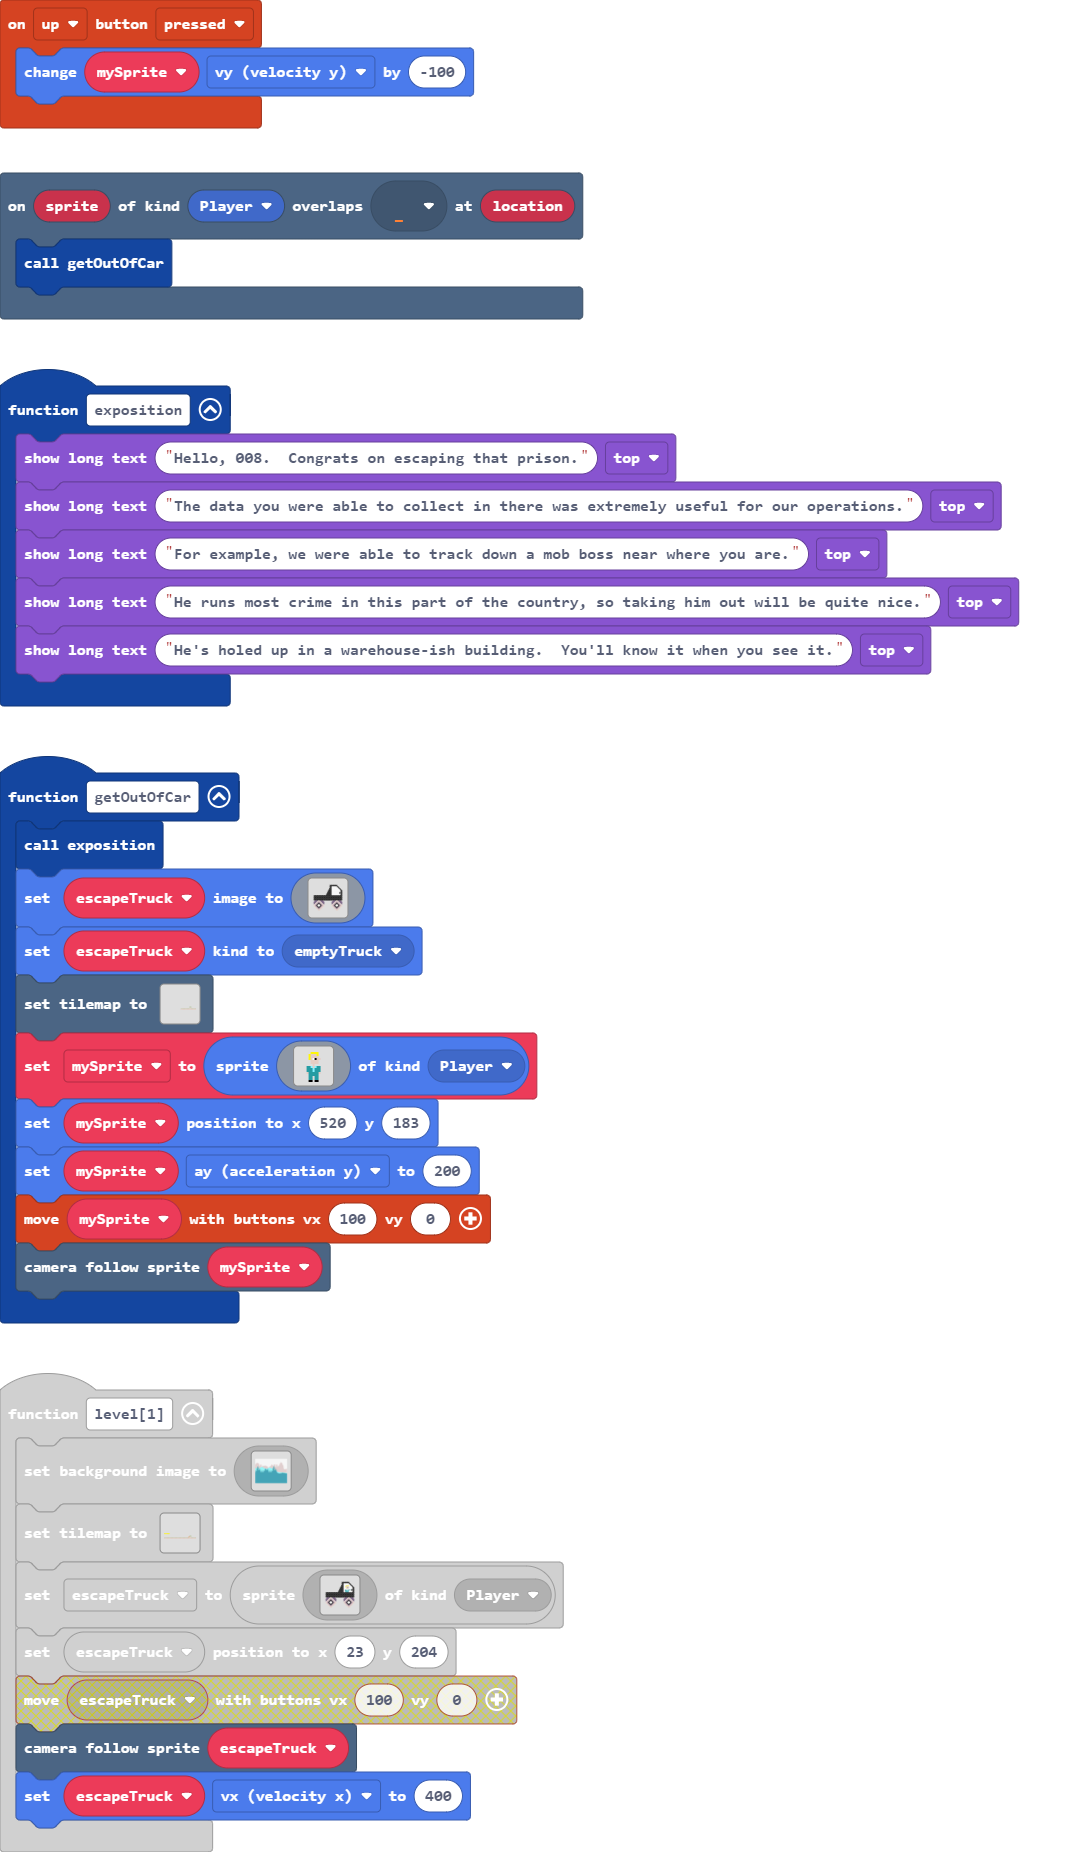
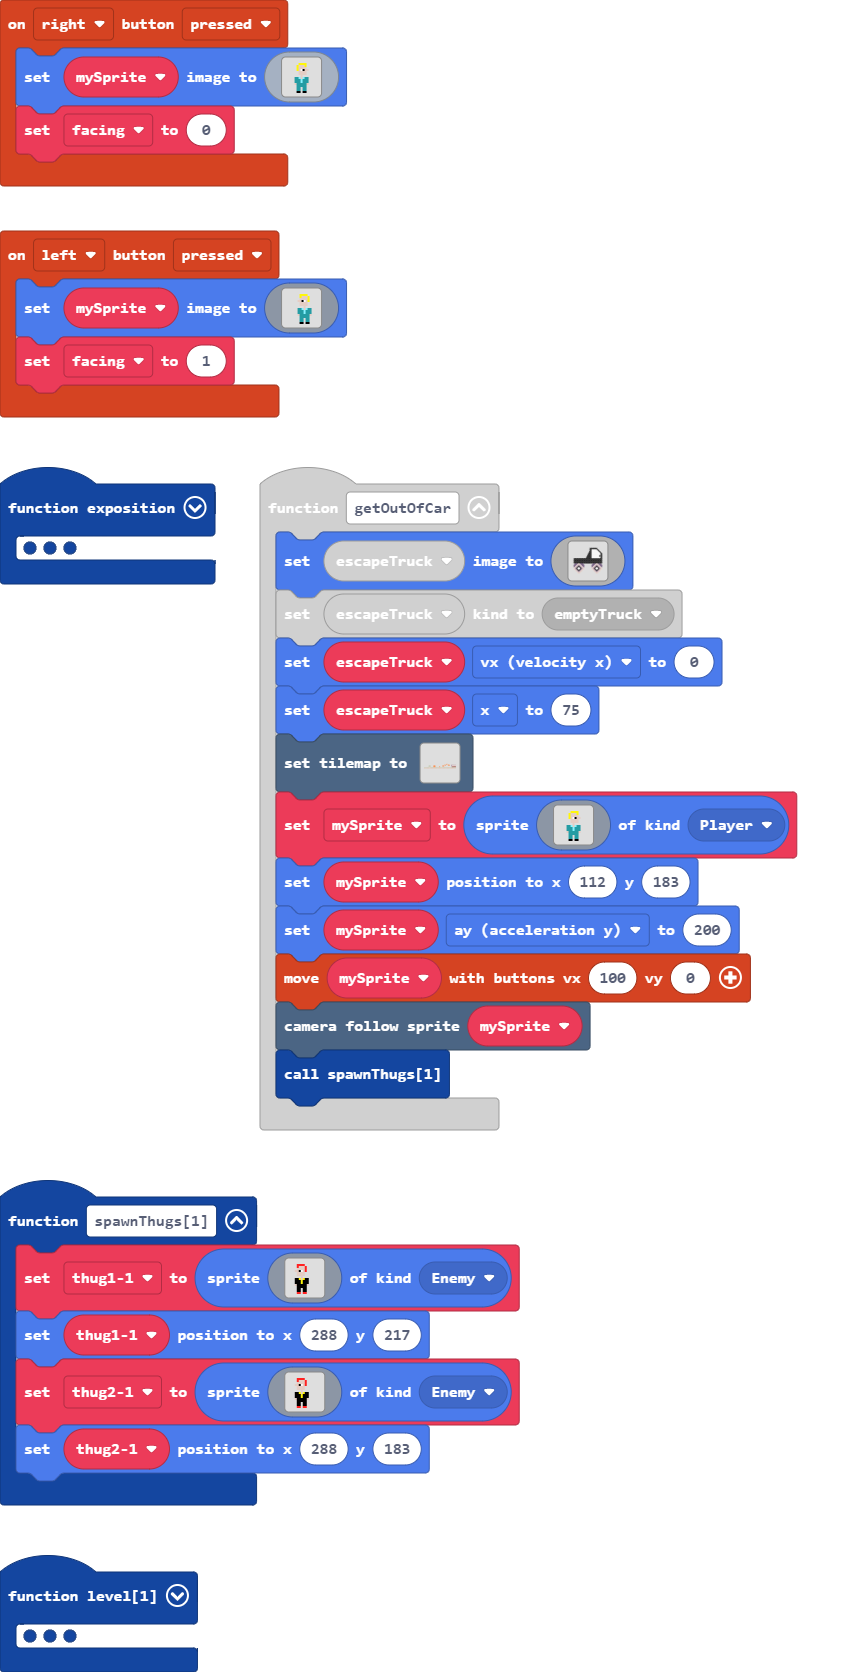
Update pxt.json, main.blocks, main.ts, tilemap.g.jres, tilemap.g.ts

diff --git a/tilemap.g.ts b/tilemap.g.ts
@@ -7,8 +7,6 @@ namespace myTiles {
     //% fixedInstance jres blockIdentity=images._tile
     export const tile3 = image.ofBuffer(hex``);
     //% fixedInstance jres blockIdentity=images._tile
-    export const tile1 = image.ofBuffer(hex``);
-    //% fixedInstance jres blockIdentity=images._tile
     export const tile4 = image.ofBuffer(hex``);
     //% fixedInstance jres blockIdentity=images._tile
     export const tile5 = image.ofBuffer(hex``);
@@ -36,6 +34,24 @@ namespace myTiles {
     export const tile9 = image.ofBuffer(hex``);
     //% fixedInstance jres blockIdentity=images._tile
     export const tile17 = image.ofBuffer(hex``);
+    //% fixedInstance jres blockIdentity=images._tile
+    export const tile18 = image.ofBuffer(hex``);
+    //% fixedInstance jres blockIdentity=images._tile
+    export const tile19 = image.ofBuffer(hex``);
+    //% fixedInstance jres blockIdentity=images._tile
+    export const tile20 = image.ofBuffer(hex``);
+    //% fixedInstance jres blockIdentity=images._tile
+    export const tile21 = image.ofBuffer(hex``);
+    //% fixedInstance jres blockIdentity=images._tile
+    export const tile22 = image.ofBuffer(hex``);
+    //% fixedInstance jres blockIdentity=images._tile
+    export const tile1 = image.ofBuffer(hex``);
+    //% fixedInstance jres blockIdentity=images._tile
+    export const tile23 = image.ofBuffer(hex``);
+    //% fixedInstance jres blockIdentity=images._tile
+    export const tile24 = image.ofBuffer(hex``);
+    //% fixedInstance jres blockIdentity=images._tile
+    export const tile25 = image.ofBuffer(hex``);
 
     helpers._registerFactory("tilemap", function(name: string) {
         switch(helpers.stringTrim(name)) {
@@ -130,24 +146,24 @@ namespace myTiles {
 ........................................
 `, [myTiles.transparency16,myTiles.tile7,myTiles.tile10,myTiles.tile11,myTiles.tile13,myTiles.tile14,myTiles.tile15,myTiles.tile9,sprites.castle.tilePath2,sprites.castle.tilePath5,sprites.castle.tilePath1,sprites.castle.tilePath4,sprites.castle.tilePath3,sprites.castle.tilePath6], TileScale.Sixteen);
             case "level6":
-            case "level6":return tiles.createTilemap(hex`2800100000000000000000000000000000000000000000000000000000000000000000000000000000000000000000000000000000000000000000000000000000000000000000000000000000000000000000000000000000000000000000000000000000000000000000000000000000000000000000000000000000000000000000000000000000000000000000000000000000000000000000000000000000000000000000000000000000000000000000000000000000000000000000000000000000000000000000000000000000000000000000000000000000000000000000000000000000000000000000000000000000000000000000000000000000000000000000000000000000000000000000000000000000000000000000000000000000000000000000000000000000000000000000000000000000000000000000000000000000000000000000000000000000000000000000000000000000000000000000000000000000000000000000000000000000000000000000000000000000000000000000000000000000000000000000000000000000000000000000000000000000000000000000000000000000000000000000000000000000000000000000000000000000000000000000000000000000000000000000000000000000000000000000000000000000000000000000000000000000000000000000000305000000000000000000000000000000000000000000000000000000000000000000000000000004060000000000000000000000000000000000000000000000000000000101010101010101010101020201010101010100000000000000000000000000000000000000000002020202020202020202020202020202020202`, img`
-.....................2..................
-.....................2..................
-.....................2..................
-.....................2..................
-.....................2..................
-.....................2..................
-.....................2..................
-.....................2..................
-.....................2..................
-.....................2..................
-.....................2..................
-.....................2..................
-.....................2.......22222......
-.....................2......222222......
-.....................2222222222222......
[1 lines of base64/hex data omitted]
 ........................................
-`, [myTiles.transparency16,sprites.castle.tilePath2,sprites.castle.tilePath5,sprites.castle.tilePath1,sprites.castle.tilePath4,sprites.castle.tilePath3,sprites.castle.tilePath6,myTiles.tile17], TileScale.Sixteen);
+........................................
+........................................
+........................................
+........................................
+........................................
+........................................
+........................................
+........................................
+.....2..................................
+.....2......................2...........
+.....2....................2...22...22222
+......22.....2.........22..........22222
+......22....22.....2....................
+........22222222222222222222222222222222
+........................................
+`, [myTiles.transparency16,sprites.castle.tilePath2,sprites.castle.tilePath5,sprites.castle.tilePath1,sprites.castle.tilePath4,sprites.castle.tilePath3,sprites.castle.tilePath6,myTiles.tile18,myTiles.tile19,myTiles.tile20,myTiles.tile2,myTiles.tile3,myTiles.tile1,myTiles.tile6,myTiles.tile9,myTiles.tile21,myTiles.tile22,myTiles.tile23,myTiles.tile24,myTiles.tile25], TileScale.Sixteen);
         }
         return null;
     })
@@ -159,8 +175,6 @@ namespace myTiles {
             case "tile2":return tile2;
             case "myTile1":
             case "tile3":return tile3;
-            case "myTile":
-            case "tile1":return tile1;
             case "myTile2":
             case "tile4":return tile4;
             case "myTile3":
@@ -189,6 +203,24 @@ namespace myTiles {
             case "tile9":return tile9;
             case "myTile15":
             case "tile17":return tile17;
+            case "myTile16":
+            case "tile18":return tile18;
+            case "myTile17":
+            case "tile19":return tile19;
+            case "myTile18":
+            case "tile20":return tile20;
+            case "myTile19":
+            case "tile21":return tile21;
+            case "myTile20":
+            case "tile22":return tile22;
+            case "myTile":
+            case "tile1":return tile1;
+            case "myTile21":
+            case "tile23":return tile23;
+            case "myTile22":
+            case "tile24":return tile24;
+            case "myTile23":
+            case "tile25":return tile25;
         }
         return null;
     })

diff --git a/main.ts b/main.ts
@@ -5,6 +5,46 @@ namespace SpriteKind {
 controller.up.onEvent(ControllerButtonEvent.Pressed, function () {
     mySprite.vy += -100
 })
+function spawnThugs1 () {
+    thug11 = sprites.create(img`
+        . . . . . . . . . . . . . . . . 
+        . . . . 2 2 2 2 . . . . . . . . 
+        . . . . 2 d d d 2 . . . . . . . 
+        . . . . d d d d 2 . . . . . . . 
+        . . . d d f 1 d 2 . . . . . . . 
+        . . . . d d d d . . . . . . . . 
+        . . . . d d d d . . . . . . . . 
+        . . . . . . d . . . . . . . . . 
+        . . . f f 5 d 5 f f . . . . . . 
+        . . . f f f 5 f f f . . . . . . 
+        . . . f f f 5 f f f . . . . . . 
+        . . . d f f f f f d . . . . . . 
+        . . . . f f f f f . . . . . . . 
+        . . . . f f . f f . . . . . . . 
+        . . . . f f . f f . . . . . . . 
+        . . . . 2 2 . 2 2 . . . . . . . 
+        `, SpriteKind.Enemy)
+    thug11.setPosition(288, 217)
+    thug21 = sprites.create(img`
+        . . . . . . . . . . . . . . . . 
+        . . . . 2 2 2 2 . . . . . . . . 
+        . . . . 2 d d d 2 . . . . . . . 
+        . . . . d d d d 2 . . . . . . . 
+        . . . d d f 1 d 2 . . . . . . . 
+        . . . . d d d d . . . . . . . . 
+        . . . . d d d d . . . . . . . . 
+        . . . . . . d . . . . . . . . . 
+        . . . f f 5 d 5 f f . . . . . . 
+        . . . f f f 5 f f f . . . . . . 
+        . . . f f f 5 f f f . . . . . . 
+        . . . d f f f f f d . . . . . . 
+        . . . . f f f f f . . . . . . . 
+        . . . . f f . f f . . . . . . . 
+        . . . . f f . f f . . . . . . . 
+        . . . . 2 2 . 2 2 . . . . . . . 
+        `, SpriteKind.Enemy)
+    thug21.setPosition(288, 183)
+}
 scene.onOverlapTile(SpriteKind.Player, assets.tile`myTile7`, function (sprite, location) {
     getOutOfCar()
 })
@@ -51,7 +91,6 @@ function level3 () {
     megaCrav.setPosition(260, 115)
 }
 function getOutOfCar () {
-    exposition()
     escapeTruck.setImage(img`
         ............................fffffffffff...........
         ............................ffffffffffff..........
@@ -95,6 +134,8 @@ function getOutOfCar () {
         ..........dd..........................dd..........
         `)
     escapeTruck.setKind(SpriteKind.emptyTruck)
+    escapeTruck.vx = 0
+    escapeTruck.x = 75
     tiles.setTilemap(tilemap`level6`)
     mySprite = sprites.create(img`
         . . . . . . . . . . . . . 
@@ -114,11 +155,54 @@ function getOutOfCar () {
         . . . . 6 6 . 6 6 . . . . 
         . . . . f f . f f . . . . 
         `, SpriteKind.Player)
-    mySprite.setPosition(520, 183)
+    mySprite.setPosition(112, 183)
     mySprite.ay = 200
     controller.moveSprite(mySprite, 100, 0)
     scene.cameraFollowSprite(mySprite)
+    spawnThugs1()
 }
+controller.left.onEvent(ControllerButtonEvent.Pressed, function () {
+    mySprite.setImage(img`
+        . . . . . . . . . . . . . . . . 
+        . . . . . . . 5 5 5 5 . . . . . 
+        . . . . . . . 5 d d d 5 . . . . 
+        . . . . . . . d d d d 5 . . . . 
+        . . . . . . d d f 1 d 5 . . . . 
+        . . . . . . . d d d d . . . . . 
+        . . . . . . . d d d d . . . . . 
+        . . . . . . . . . d . . . . . . 
+        . . . . . . 6 6 9 d 9 6 6 . . . 
+        . . . . . . 6 6 6 9 6 6 6 . . . 
+        . . . . . . 6 6 6 9 6 6 6 . . . 
+        . . . . . . d 6 6 6 6 6 d . . . 
+        . . . . . . . 6 6 6 6 6 . . . . 
+        . . . . . . . 6 6 . 6 6 . . . . 
+        . . . . . . . 6 6 . 6 6 . . . . 
+        . . . . . . . f f . f f . . . . 
+        `)
+    facing = 1
+})
+controller.right.onEvent(ControllerButtonEvent.Pressed, function () {
+    mySprite.setImage(img`
+        . . . . . . . . . . . . . 
+        . . . . . 5 5 5 5 . . . . 
+        . . . . 5 d d d 5 . . . . 
+        . . . . 5 d d d d . . . . 
+        . . . . 5 d 1 f d d . . . 
+        . . . . . d d d d . . . . 
+        . . . . . d d d d . . . . 
+        . . . . . . d . . . . . . 
+        . . . 6 6 9 d 9 6 6 . . . 
+        . . . 6 6 6 9 6 6 6 . . . 
+        . . . 6 6 6 9 6 6 6 . . . 
+        . . . d 6 6 6 6 6 d . . . 
+        . . . . 6 6 6 6 6 . . . . 
+        . . . . 6 6 . 6 6 . . . . 
+        . . . . 6 6 . 6 6 . . . . 
+        . . . . f f . f f . . . . 
+        `)
+    facing = 0
+})
 function level1 () {
     scene.setBackgroundImage(img`
         1111111111111111111111111111111111111111111111111111111111111111111111111111111111111111111111111111111111111111111111111111111111111111111111111111111111111111
@@ -295,8 +379,23 @@ function exposition () {
     game.showLongText("For example, we were able to track down a mob boss near where you are.", DialogLayout.Top)
     game.showLongText("He runs most crime in this part of the country, so taking him out will be quite nice.", DialogLayout.Top)
     game.showLongText("He's holed up in a warehouse-ish building.  You'll know it when you see it.", DialogLayout.Top)
+    game.showLongText("Here's a reminder for what to do:", DialogLayout.Bottom)
+    game.showLongText("Left/Right buttons to move", DialogLayout.Bottom)
+    game.showLongText("Up button to jump", DialogLayout.Bottom)
+    game.showLongText("A lets you fire your weapon", DialogLayout.Bottom)
+    game.showLongText("B is to heal", DialogLayout.Bottom)
+    game.showLongText("Remember, take out enemies before they take out you.", DialogLayout.Bottom)
+    game.showLongText("A healthbar will indicate who's worse for wear.", DialogLayout.Bottom)
+    game.showLongText("Medkits will let you heal.", DialogLayout.Bottom)
+    game.showLongText("You will need to reload occasionally.", DialogLayout.Bottom)
+    game.showLongText("Don't be in the open when your bullets hit zero.", DialogLayout.Bottom)
+    game.showLongText("Alright, I think that's all.", DialogLayout.Top)
+    game.showLongText("Good luck, 008.", DialogLayout.Top)
 }
+let facing = 0
 let escapeTruck: Sprite = null
 let megaCrav: Sprite = null
+let thug21: Sprite = null
+let thug11: Sprite = null
 let mySprite: Sprite = null
 level1()
